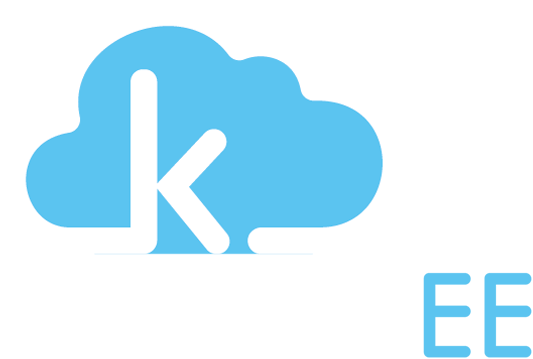
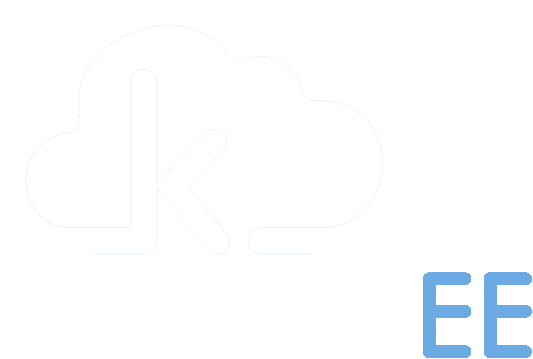
revert to old colors

Changed region(s): [[0.03, 0.0613, 0.7205, 0.7047], [0.7805, 0.7354, 1.0, 1.0]]

diff --git a/assets/js/jquery.ajaxchimp.js b/assets/js/jquery.ajaxchimp.js
@@ -109,7 +109,7 @@ For e.g. 'http://blahblah.us1.list-manage.com/subscribe/post-json?u=5afsdhfuhdsi
                             title: "Success!",
                             text: "Submission was successful, we have sent you a confirmation email.",
                             type: "success",
-                            confirmButtonColor: "#244c9b"
+                            confirmButtonColor: "#263c5f"
                         });
 
                         $(".confirm").click(function () {

diff --git a/_sass/_variables.scss b/_sass/_variables.scss
@@ -1,5 +1,4 @@
 $font-family: 'Ubuntu Condensed', sans-serif;
-//$base-color: #2b443a;
-$base-color: #244c9b;
-$ee-color: #5bc4f0;
+$base-color: #263c5f;
+$ee-color: #6caae4;
 $top-navbar-height: 80px;

diff --git a/_sass/_layout.scss b/_sass/_layout.scss
@@ -774,7 +774,7 @@ pre {
 
 .highlight {
   height: 190px;
-  background: #244c9b;
+  background: #263c5f;
   display: flex;
   flex-direction: column;
   justify-content: center;

diff --git a/assets/css/panel.css b/assets/css/panel.css
@@ -54,7 +54,7 @@
 
 .panel.price .btn{
     color: #fff;
-    background-color: #244c9b;
+    background-color: #263c5f;
     text-shadow: none;
 }
 

diff --git a/_sass/_features.scss b/_sass/_features.scss
@@ -74,7 +74,3 @@
 	    }
     }
 }
-
-.panel.price .btn, .price.panel-blue>.panel-heading {
-    background-color: $base-color !important;
-}
